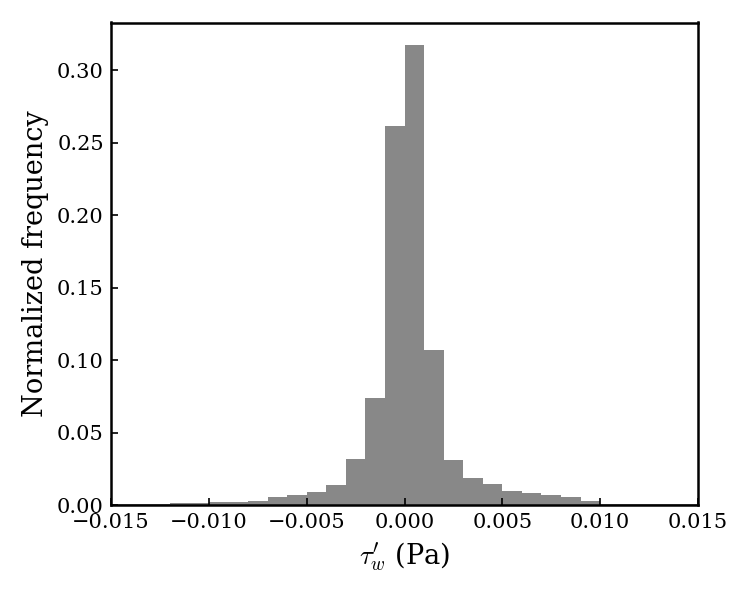
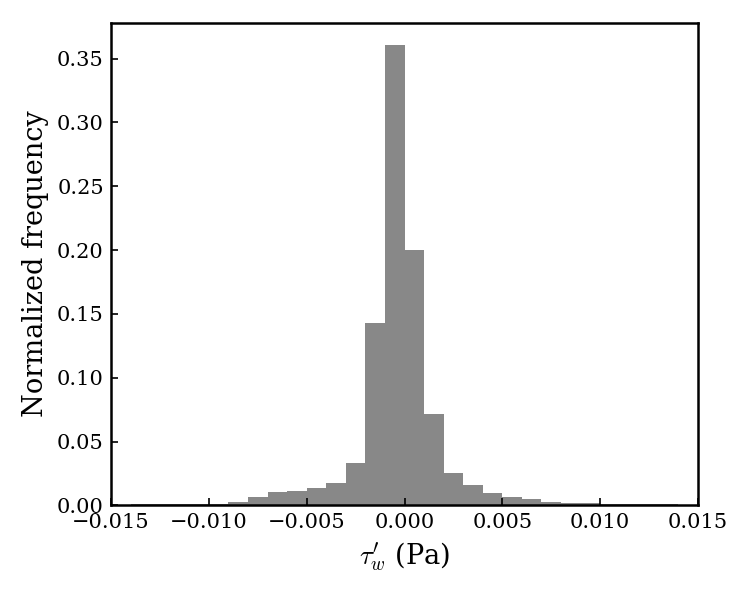
fix(fig8): diagnostics out of the replica folder; (b)/(c) mark the histogram frames; Kim's axis limits
Claude-Session: https://claude.ai/code/session_01YAKLKMs5oUYu8r6RenvudK

diff --git a/scripts/plot_fig8.py b/scripts/plot_fig8.py
@@ -83,6 +83,10 @@ RUNS = [("L8", "l8_coldstart_vid", fs.level_colour(8)),
         ("L9", "a34fc4d4", fs.level_colour(9)),
         ("L10", _l10_source(), fs.level_colour(10))]
 HIST_RUN = _l10_source()
+# Phase-folded level comparisons are diagnostics, not panels of Kim's figure
+# (his Fig 8(a) is an unfolded time series), so they live outside the replica
+# folder and can't be mistaken for part of Fig 8.
+DIAG_DIR = ROOT / "experiments" / "diagnostics" / "fig8"
 # Fraction of HIST_RUN's frames kept for (b)/(c), from the END. l10b's even
 # harmonic is <= 0.09 only over its last ~6 of 21 cycles.
 HIST_TAIL = 0.25 if HIST_RUN == "fig8_hist_l10b" else 0.5
@@ -195,7 +199,15 @@ def _shear_series(run):
     return t / T_per_nd, tau * tau_scale, eps * ediss_scale
 
 
-def time_panel(lvl="L10", n_cycles=3.0):
+def panel_window(lvl="L10", n_cycles=3.0):
+    """The last n_cycles of the reference level's shear_stress.dat, in t/T_p."""
+    got = _shear_series(dict((n, r) for n, r, _ in RUNS)[lvl])
+    c = got[0]
+    t1 = float(c.max())
+    return max(float(c.min()), t1 - n_cycles), t1
+
+
+def time_panel(lvl, t_b, t_c, n_cycles=3.0):
     """Kim's Fig 8(a): the TIME EVOLUTION, both quantities on one axes.
 
     His panel runs t/T_p = 80 to 83 -- three unfolded cycles -- with
@@ -232,11 +244,9 @@ def time_panel(lvl="L10", n_cycles=3.0):
     if lvl not in dense:
         print(f"time_panel: no shear_stress.dat for {lvl}")
         return
-    (rc, _, _), _ = dense[lvl]
     # Window set by the reference level, so every series shows the SAME three
     # cycles of its own record rather than three arbitrary different ones.
-    t1 = float(rc.max())
-    t0 = max(float(rc.min()), t1 - n_cycles)
+    t0, t1 = panel_window(lvl, n_cycles)
 
     fig, ax = plt.subplots(figsize=(6.2, 3.4))
     ax2 = ax.twinx()
@@ -252,15 +262,15 @@ def time_panel(lvl="L10", n_cycles=3.0):
         ax2.plot(c[m], eps[m], color=col, lw=1.1, ls="--")
         shown.append((name, col))
         if name == lvl:
-            # Peak instants of the reference level: these are what panels
-            # (b) and (c) take their distributions at.
-            tt, ee = tau[m], eps[m]
-            ax.annotate("(b)", xy=(c[m][int(np.argmax(tt))], tt.max()),
-                        xytext=(0, 11), textcoords="offset points",
-                        color=col, fontsize=10, ha="center")
-            ax2.annotate("(c)", xy=(c[m][int(np.argmax(ee))], ee.max()),
-                         xytext=(0, 11), textcoords="offset points",
-                         color=col, fontsize=10, ha="center")
+            # (b) and (c) mark the EXACT field frames the histograms are taken
+            # from (t_b, t_c), not peaks of this curve, so the labels and the
+            # distributions refer to the same instants. Arrows as in Kim's panel.
+            for lab, tx, axis, y in (("(b)", t_b, ax, tau), ("(c)", t_c, ax2, eps)):
+                yv = float(np.interp(tx, c, y))
+                axis.annotate(lab, xy=(tx, yv), xytext=(0, 22),
+                              textcoords="offset points", color=col,
+                              fontsize=10, ha="center",
+                              arrowprops=dict(arrowstyle="->", color=col, lw=0.9))
     if not shown:
         plt.close(fig)
         print("time_panel: no level had frames in the window")
@@ -281,11 +291,11 @@ def time_panel(lvl="L10", n_cycles=3.0):
                    bbox_to_anchor=(1.10, 1.0), title="level")
     lg.get_title().set_fontsize(8)
     ax.set_xlim(t0, t1)
-    # eps is a dissipation and cannot be negative; Kim's right axis starts
-    # at 0 and the left is symmetric about it.
-    lim = float(np.max(np.abs(tau[m]))) * 1.25
-    ax.set_ylim(-lim, lim)
-    ax2.set_ylim(0.0, float(np.max(eps[m])) * 1.25)
+    # Kim's own limits, so the two panels can be laid side by side:
+    # +-3e-3 Pa (scaled x10^-3, as he draws it) and 0-0.4 W/m^3.
+    ax.set_ylim(-3e-3, 3e-3)
+    ax.ticklabel_format(axis="y", style="sci", scilimits=(-3, -3), useMathText=True)
+    ax2.set_ylim(0.0, 0.4)
     ax.tick_params(which="both", direction="in")
     fig.tight_layout()
     fig.savefig(OUT_DIR / "replicated_Fig8_a.png", dpi=150,
@@ -367,15 +377,15 @@ def phase_panel(key, fname, ylabel, ylim, kim_peak, symmetric):
     ax.set_ylim(*ylim)
     ax.legend(fontsize=8, frameon=False, loc="upper left", bbox_to_anchor=(1.01, 1.0))
     fig.tight_layout()
-    fig.savefig(OUT_DIR / fname, dpi=150, bbox_inches="tight")
-    print("saved", fname)
+    DIAG_DIR.mkdir(parents=True, exist_ok=True)
+    fig.savefig(DIAG_DIR / fname, dpi=150, bbox_inches="tight")
+    print("saved", DIAG_DIR / fname)
 
 
 # Panel (a) as Kim draws it: one axes, three unfolded cycles, both
 # quantities. The phase-folded level comparison that used to stand in for it
 # is kept as a diagnostic, not as a replica -- it answers "how repeatable is
 # this cycle to cycle", which the paper's panel does not ask.
-time_panel("L10")
 phase_panel("tau", "diagnostic_Fig8_phasefold_tau.png",
             r"$\langle\tau_w'\rangle$ (Pa)",
             (-3e-3, 3e-3), KIM_TAU_PEAK, symmetric=True)
@@ -388,12 +398,21 @@ phase_panel("ediss", "diagnostic_Fig8_phasefold_ediss.png",
 b_hi, tau_scale, ediss_scale, _, _ = scales(HIST_RUN)
 frames = [load_frame(p) for p in
           sorted((ROOT / "runs" / HIST_RUN / "frames_tau").glob("frame_*.bin"))]
-frames = frames[int(len(frames) * (1 - HIST_TAIL)):]
+# Only frames inside panel (a)'s window, so (b) and (c) are instants the reader
+# can see there. The window is the run's last 3 cycles, inside the settled tail
+# that HIST_TAIL was chosen for.
+_, _, _, T_bio_h, omega_h = scales(HIST_RUN)
+T_per_h = (2 * math.pi / omega_h) / T_bio_h
+w0, w1 = panel_window("L10")
+frames = [fr for fr in frames[int(len(frames) * (1 - HIST_TAIL)):]
+          if w0 <= fr[0] / T_per_h <= w1]
 
 tau_means = [tau[bag_mask(f, b_hi)].mean() for _, f, tau, _ in frames]
 ediss_means = [ed[bag_mask(f, b_hi)].mean() for _, f, _, ed in frames]
-i_tau = int(np.argmax(np.abs(tau_means)))
+# Kim's (b) is the POSITIVE peak of the signed mean (his arrow sits on a crest).
+i_tau = int(np.argmax(tau_means))
 i_ediss = int(np.argmax(ediss_means))
+time_panel("L10", frames[i_tau][0] / T_per_h, frames[i_ediss][0] / T_per_h)
 
 _, f_t, tau_field, _ = frames[i_tau]
 _, f_e, _, ediss_field = frames[i_ediss]
